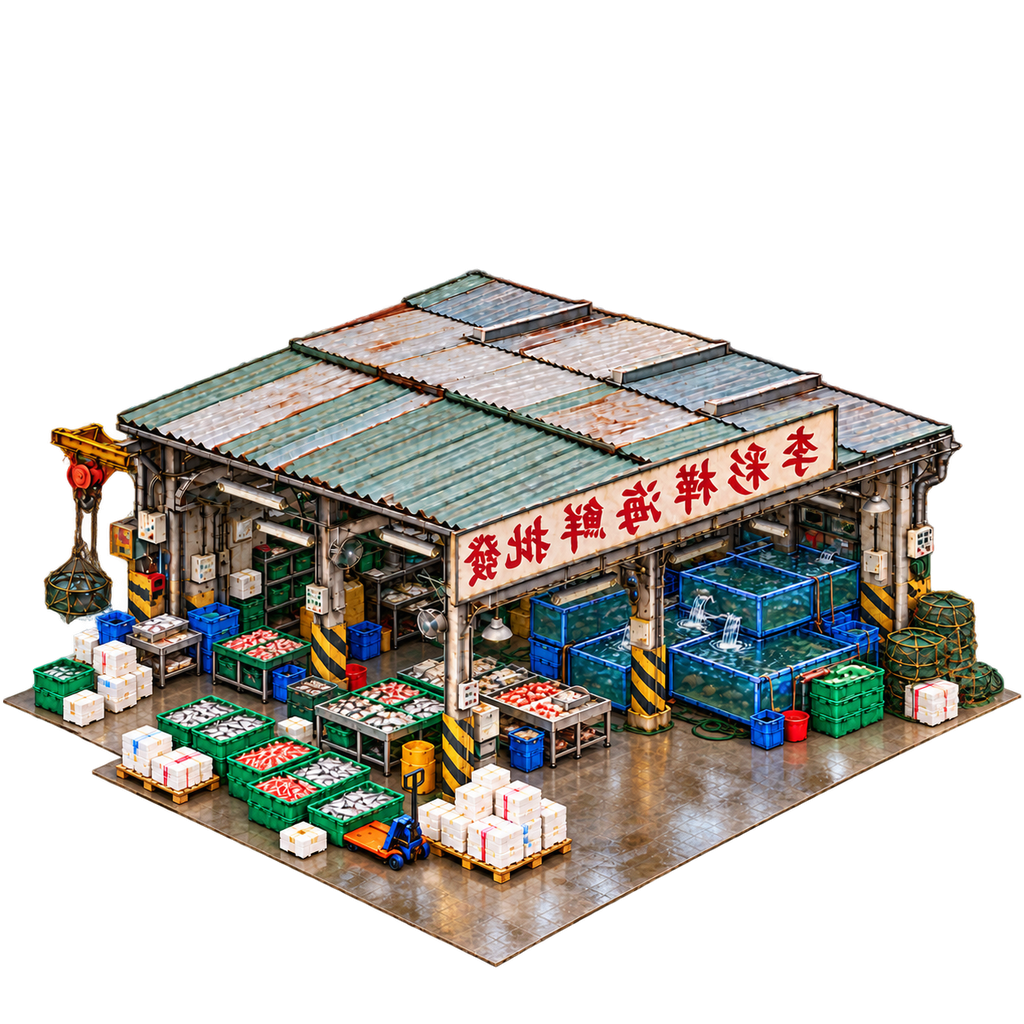
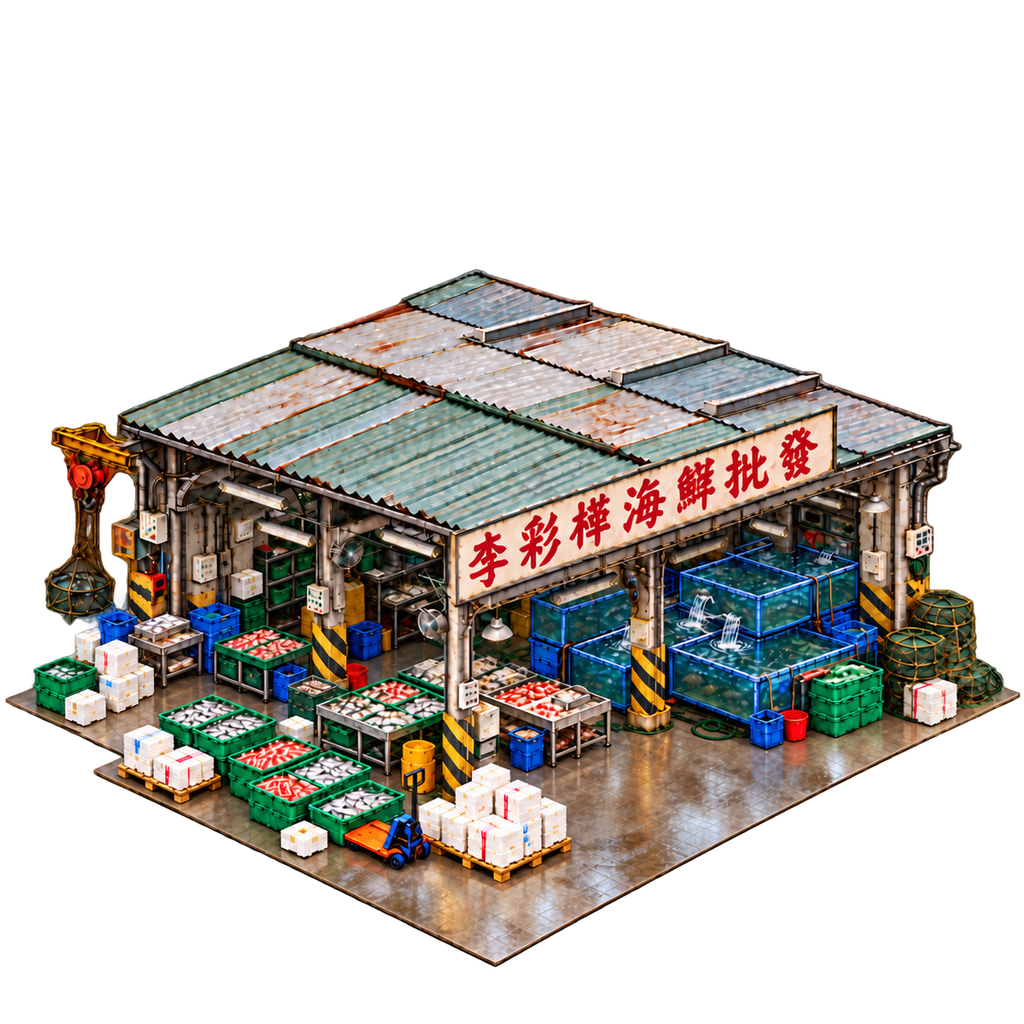
Make the loading bay an open lot that turns its driveway to the road
The loading bay's art is now Norton's asphalt lot: a driveway down the
middle, a row of parking bays down each side, hatched corners, no shed
and no lights. The render was not 2:1 (about 1.6:1, with some
perspective), so it is rectified from its four corners onto the 2 x 2
diamond; the source is kept in scripts/source-art/loadingBay/. With no
lights it has no day art, and the bay has no opening hours.

The mirror now turns the driveway to the road: the plain art opens to
the bottom-left and top-right on screen, the mirror to the bottom-right
and top-left, so every rotation has one or the other. The crate piles go
in the parking bays, clear of the driveway, the hatched corners and the
road edge, the furthest first; the first two trucks drive up the
driveway from between its two road tiles, one behind the other.

Mirrors: the fish market 1 day art and the seafood restaurant 2 lit art
take Norton's redrawn mirrors, whose signs read the right way; the rest
keep the flipped art until theirs are redrawn with matching signs (the
new renders are in scripts/source-art/marketMirror/).

Changed region(s): [[0.0, 0.25, 1.0, 0.9688], [0.7812, 0.75, 0.8438, 0.7812]]

diff --git a/typhoon-shelter-market.js b/typhoon-shelter-market.js
@@ -26,11 +26,17 @@ const TYPHOON_SHELTER_MARKET = Object.freeze({
   gridM: 5,                      // a tile (20 m) is laid out on a 4 x 4 grid of 5 m cells
   pileObjects: Object.freeze(['shoreAssessories1', 'shoreAssessories3', 'shoreAssessories4']),
   maxBayPiles: 24,
-  bayShedDepth: 0.36,            // the bay art's covered shed: this deep from its top-right edge
-  bayTruckClearTiles: 0.8,       // and the piles keep this clear of the road edge, where trucks stand
+  // the bay's art is a lot with a driveway down the middle and a row of parking bays down each side,
+  // the hatched corners kept clear: the piles go in the bays - this share of the lot's width in from
+  // each side, this far along it - and the trucks stand in the driveway
+  bayStallDepth: 0.28,
+  bayStallFrom: 0.2,
+  bayStallTo: 0.72,
+  bayTruckClearTiles: 0.8,       // and the piles keep this clear of the road edge, where trucks come in
   shelterReach: 4,               // a market serves the shelter whose waterfront is nearest, this close
   bayReach: 2,                   // a loading bay belongs to a market this close (tiles between them)
   bayInsideTiles: 1,             // a truck in a bay stands this far in from the middle of the road
+  bayDriveTiles: Object.freeze([1.55, 0.9]),  // the two trucks in the driveway, the first further in
   // monthly upkeep, on the typhoon shelters' budget line (getTyphoonShelterMonthlyUpkeep)
   upkeep: Object.freeze({ fish_market: 90, seafood_restaurant: 60, fish_loading_bay: 30 }),
   // opening hours, sky minutes [from, to): lit art while open and all night, the lights-off day art
@@ -38,7 +44,6 @@ const TYPHOON_SHELTER_MARKET = Object.freeze({
   // restaurant lunch to late
   hours: Object.freeze({
     fish_market: Object.freeze([3 * 60, 10 * 60]),
-    fish_loading_bay: Object.freeze([3 * 60, 10 * 60]),     // the bay works the market's hours
     seafood_restaurant: Object.freeze([11 * 60, 23 * 60]),
   }),
 });
@@ -130,10 +135,11 @@ function assignTyphoonShelterMarkets({ markets, bays, shelters }, isRoad) {
 
 /**
  * Where the crate piles stand in a loading bay: [{ cell, row, col, offsets }], up to maxBayPiles.
- * The bay's art does not turn with the map: its covered shed runs along the top-right (north-east)
- * edge on screen - the top-left in the `mirrored` art - so the piles go on the open lot clear of
- * the shed and of the trucks' half by the road, the cells nearest the shed first. `toScreen(col,
- * row)` is isoToScreen (tile centres at whole numbers); the layout is redone when the map turns.
+ * The bay's art does not turn with the map: its driveway runs from the bottom-left edge to the
+ * top-right one on screen (in the `mirrored` art from the bottom-right to the top-left), its
+ * parking bays down the two other sides. The piles go in the parking bays, clear of the hatched
+ * corners and of the road edge, the bays furthest from the road first. `toScreen(col, row)` is
+ * isoToScreen (tile centres at whole numbers); the layout is redone when the map turns.
  */
 function layoutTyphoonShelterBayPiles(bay, toScreen, mirrored = false) {
   const M = TYPHOON_SHELTER_MARKET;
@@ -155,16 +161,18 @@ function layoutTyphoonShelterBayPiles(bay, toScreen, mirrored = false) {
     const c = col + dx / 20;
     const p = toScreen(c, r);
     const px = p.x - top.x; const py = p.y - top.y;
-    // a runs along the shed's edge, b is the depth from it
-    const along = (px * vy - py * vx) / det;
-    const depth = (ux * py - uy * px) / det;
-    const a = mirrored ? depth : along;
-    const b = mirrored ? along : depth;
-    if (b < M.bayShedDepth || a < 0.08 || a > 0.92 || b > 0.92) return;
-    if (edge(r, c) < M.bayTruckClearTiles) return;
-    cells.push({ cell: `${row}:${col}:${dy}:${dx}`, row, col, a, b, offsets: [['s', dy], ['e', dx]] });
+    // in the art: across the driveway (0 and 1 the two sides with parking bays), and along it
+    const u = (px * vy - py * vx) / det;
+    const v = (ux * py - uy * px) / det;
+    const across = mirrored ? v : u;
+    const along = mirrored ? u : v;
+    const inBays = across < M.bayStallDepth || across > 1 - M.bayStallDepth;
+    if (!inBays || along < M.bayStallFrom || along > M.bayStallTo || across < 0.04 || across > 0.96) return;
+    const fromRoad = edge(r, c);
+    if (fromRoad < M.bayTruckClearTiles) return;
+    cells.push({ cell: `${row}:${col}:${dy}:${dx}`, row, col, fromRoad, across, offsets: [['s', dy], ['e', dx]] });
   })));
-  cells.sort((x, y) => x.b - y.b || x.a - y.a);
+  cells.sort((x, y) => y.fromRoad - x.fromRoad || x.across - y.across || x.cell.localeCompare(y.cell));
   return cells.slice(0, M.maxBayPiles).map(({ cell, row, col, offsets }) => ({ cell, row, col, offsets }));
 }
 
@@ -318,6 +326,12 @@ function tsTruckSpot(market, k, isParkingRoad, buildingSide, arrival, dr, dc) {
     .filter((t) => !footprint.some(([r, c]) => r === t.row && c === t.col) && isParkingRoad(t.row, t.col))
     .sort((a, b) => (b.row * arrival.row + b.col * arrival.col) - (a.row * arrival.row + a.col * arrival.col));
   if (!front.length) return null;
+  // the first two drive into the driveway, which runs in from between the two road tiles: one
+  // behind the other, the first further in
+  const drive = TYPHOON_SHELTER_MARKET.bayDriveTiles;
+  if (k < drive.length && front.length >= 2) {
+    return tsCurbSpot(front[0], buildingSide, arrival, 0.5, isParkingRoad, drive[k] - ICE_CREAM_EVENT_CONFIG.parkingOffsetTiles);
+  }
   const inset = TYPHOON_SHELTER_MARKET.bayInsideTiles - ICE_CREAM_EVENT_CONFIG.parkingOffsetTiles;
   if (k < front.length) return tsCurbSpot(front[k], buildingSide, arrival, 0, isParkingRoad, inset);
   return tsCurbSpot(front[front.length - 1], buildingSide, arrival, (k - front.length + 1) * T.slotTiles, isParkingRoad);
@@ -460,11 +474,11 @@ function getTyphoonShelterLightingKey(facingKey, shutByDay, hasDayArt) {
   return shutByDay && hasDayArt ? `${facingKey}_day` : facingKey;
 }
 
-// The loading bay's art is open on three sides, its shed along the top-right edge on screen (the
-// mirror's top-left) and its way in from the bottom-left (the mirror's bottom-right): with the road
-// to the south-east or north-east the mirror, else the plain art - an open side always on the road.
+// The loading bay's driveway runs from the bottom-left edge to the top-right one on screen (the
+// mirror's from the bottom-right to the top-left): with the road to the south-east or north-west
+// the mirror, else the plain art - the driveway always opens on the road.
 function isTyphoonShelterBayMirrored(roadScreen) {
-  return roadScreen === 'se' || roadScreen === 'ne';
+  return roadScreen === 'se' || roadScreen === 'nw';
 }
 
 // Whether a bay (with its `road` from chooseTyphoonShelterRoadSide) is drawn mirrored at `rotation`.
@@ -495,8 +509,8 @@ function getTyphoonShelterBuildingLighting(scene) {
 }
 
 // On a map turn, a load, a placement, and when one opens or shuts or night falls: each market and
-// restaurant drawn with its front to the sea, each loading bay with its open side to the road, and
-// all of them with their lights on or off.
+// restaurant drawn with its front to the sea and its lights on or off, each loading bay with its
+// driveway to the road.
 function refreshTyphoonShelterBuildingSprites(scene) {
   if (typeof buildingData === 'undefined' || typeof SPECIAL_BUILDING_MIRROR_MODELS === 'undefined') return;
   const rotation = typeof mapRotation === 'number' ? mapRotation : 0;
@@ -505,7 +519,7 @@ function refreshTyphoonShelterBuildingSprites(scene) {
   if (scene) scene.typhoonShelterBuildingLighting = lighting.key;
   const dayArt = typeof SPECIAL_BUILDING_DAY_MODELS !== 'undefined' ? SPECIAL_BUILDING_DAY_MODELS : {};
   Object.entries(buildingData).forEach(([id, record]) => {
-    if (!TYPHOON_SHELTER_MARKET.hours[record?.type]) return;
+    if (!['fish_market', 'seafood_restaurant', 'fish_loading_bay'].includes(record?.type)) return;
     const baseKey = String(record.spriteKey || '').replace(/(_m)?(_day)?$/, '');
     const [row, col] = id.split(':').map(Number);
     let facingKey;

diff --git a/test/typhoon-shelter-market.test.js b/test/typhoon-shelter-market.test.js
@@ -47,24 +47,39 @@ test('a market serves the nearest shelter in reach, and a loading bay beside it 
   assert.equal(both.filter((m) => m.bay?.id === '5:7').length, 1);
 });
 
-test('a loading bay\'s crate piles stand on the open lot: clear of the shed and of the trucks', () => {
-  const toScreen = (col, row) => ({ x: (col - row) * 32, y: (col + row) * 16 });
-  const bay = { row: 5, col: 7, road: { side: 's', road: { row: 7, col: 7 }, through: 2 } };
-  const piles = layoutTyphoonShelterBayPiles(bay, toScreen);
-  assert.ok(piles.length > 8 && piles.length <= M.maxBayPiles, `${piles.length} piles`);
-  assert.equal(new Set(piles.map((p) => p.cell)).size, piles.length);
-  // the shed runs along the top-right edge on screen: between the top and right corners
+// a point's place in the bay's art: across the driveway (0, 1: the sides with parking bays) and
+// along it, from the corners of the 2 x 2 lot on screen
+function bayArtCoords(bay, toScreen, p, mirrored) {
   const top = toScreen(bay.col - 0.5, bay.row - 0.5);
   const right = toScreen(bay.col + 1.5, bay.row - 0.5);
-  piles.forEach((p) => {
-    const r = p.row + p.offsets[0][1] / 20;
-    const c = p.col + p.offsets[1][1] / 20;
-    const pt = toScreen(c, r);
-    // distance from the shed's edge, as a share of the bay's depth
-    const ex = right.x - top.x; const ey = right.y - top.y;
-    const across = Math.abs((pt.x - top.x) * ey - (pt.y - top.y) * ex) / Math.hypot(ex, ey);
-    assert.ok(across > 0.3 * 2 * 32 * Math.SQRT2 * 0.7, 'clear of the shed');
-    assert.ok(bay.row + 1.5 - r >= M.bayTruckClearTiles, 'clear of the trucks by the road');
+  const left = toScreen(bay.col - 0.5, bay.row + 1.5);
+  const r = p.row + p.offsets[0][1] / 20;
+  const c = p.col + p.offsets[1][1] / 20;
+  const pt = toScreen(c, r);
+  const ux = right.x - top.x; const uy = right.y - top.y; const vx = left.x - top.x; const vy = left.y - top.y;
+  const det = ux * vy - uy * vx;
+  const u = ((pt.x - top.x) * vy - (pt.y - top.y) * vx) / det;
+  const v = (ux * (pt.y - top.y) - uy * (pt.x - top.x)) / det;
+  return { across: mirrored ? v : u, along: mirrored ? u : v, r, c };
+}
+
+test('a loading bay\'s crate piles stand in its parking bays: clear of the driveway, the hatched corners and the road', () => {
+  const toScreen = (col, row) => ({ x: (col - row) * 32, y: (col + row) * 16 });
+  [[false, { side: 's', road: { row: 7, col: 7 }, through: 2 }], [true, { side: 'e', road: { row: 5, col: 9 }, through: 2 }]].forEach(([mirrored, road]) => {
+    const bay = { row: 5, col: 7, road };
+    const piles = layoutTyphoonShelterBayPiles(bay, toScreen, mirrored);
+    assert.ok(piles.length >= 8 && piles.length <= M.maxBayPiles, `${piles.length} piles`);
+    assert.equal(new Set(piles.map((p) => p.cell)).size, piles.length);
+    let sides = 0;
+    piles.forEach((p) => {
+      const { across, along, r, c } = bayArtCoords(bay, toScreen, p, mirrored);
+      assert.ok(across < M.bayStallDepth || across > 1 - M.bayStallDepth, `in a parking bay, not the driveway (${across.toFixed(2)})`);
+      assert.ok(along >= M.bayStallFrom && along <= M.bayStallTo, 'clear of the hatched corners');
+      const fromRoad = road.side === 's' ? bay.row + 1.5 - r : bay.col + 1.5 - c;
+      assert.ok(fromRoad >= M.bayTruckClearTiles, 'clear of the road edge');
+      sides |= across < 0.5 ? 1 : 2;
+    });
+    assert.equal(sides, 3, 'both rows of parking bays');
   });
 });
 
@@ -159,12 +174,13 @@ test('the trucks pull up from 03:00 and queue along the curb, loading in turn', 
     const dead = getTyphoonShelterTruckParking(market, 0, (r, c) => stub.has(`${r}:${c}`));
     assert.equal(dead.arrival.col, -1, 'comes from the east');
     assert.equal(dead.departure.col, 1, 'turns round and leaves east');
-    // a bay: the first two drive in, the further one first; the third waits at the curb behind
+    // a bay: the first two drive up its driveway, which runs in from between its two road tiles
+    // (cols 11 and 12), one behind the other, the first further in; the third waits at the curb
     const withBay = { ...market, bay: { row: 10, col: 11, road: { side: 'n', road: { row: 9, col: 11 }, through: 2 } } };
     const in0 = getTyphoonShelterTruckParking(withBay, 0, isRoad);
     const in1 = getTyphoonShelterTruckParking(withBay, 1, isRoad);
-    assert.deepEqual([in0.road.col, in1.road.col], [11, 12], 'travelling west, col 11 is further along');
-    assert.ok(in0.shift.row > 0.5, 'in off the road');
+    assert.deepEqual([in0.road.col + in0.shift.col, in1.road.col + in1.shift.col], [11.5, 11.5], 'in the driveway');
+    assert.ok(in0.shift.row > in1.shift.row + 0.55 && in1.shift.row > 0.4, 'in off the road, the first further in, a truck length apart');
     const queued = getTyphoonShelterTruckParking(withBay, 2, isRoad);
     assert.ok(queued.road.col >= 12 && Math.abs(queued.shift.row) < 1e-9, 'at the curb');
   } finally {
@@ -185,36 +201,19 @@ test('markets and restaurants face the sea, and draw their lights-off day art on
   assert.equal(isTyphoonShelterBuildingOpen('fish_market', 14 * 60 + 1440 * 3), false, 'any day');
   assert.equal(isTyphoonShelterBuildingOpen('seafood_restaurant', 9 * 60), false);
   assert.equal(isTyphoonShelterBuildingOpen('seafood_restaurant', 19 * 60), true);
-  assert.equal(isTyphoonShelterBuildingOpen('fish_loading_bay', 14 * 60), false, 'the bay works the market\'s hours');
-  assert.equal(isTyphoonShelterBuildingOpen('fish_loading_bay', 4 * 60), true);
+  assert.equal(isTyphoonShelterBuildingOpen('fish_loading_bay', 14 * 60), true, 'the bay is an open lot: no lights to put out');
   assert.equal(isTyphoonShelterBuildingOpen('harbor', 14 * 60), true, 'no hours: always as drawn');
   assert.equal(getTyphoonShelterLightingKey('fish_market_1x1_m', true, true), 'fish_market_1x1_m_day');
   assert.equal(getTyphoonShelterLightingKey('fish_market_1x1_m', false, true), 'fish_market_1x1_m');
   assert.equal(getTyphoonShelterLightingKey('fish_market_1x1', true, false), 'fish_market_1x1', 'no day art: the lit art');
 });
 
-test('a loading bay turns an open side to the road: the mirror for a road to the south-east or north-east', () => {
+test('a loading bay turns its driveway to the road: the mirror for a road to the south-east or north-west', () => {
   const { isTyphoonShelterBayMirrored } = market;
-  // plain art: shed top-right, open bottom-left, bottom-right and top-left; the mirror the other way
+  // plain art: the driveway opens bottom-left and top-right; the mirror bottom-right and top-left
   assert.equal(isTyphoonShelterBayMirrored('sw'), false);
-  assert.equal(isTyphoonShelterBayMirrored('nw'), false);
+  assert.equal(isTyphoonShelterBayMirrored('ne'), false);
   assert.equal(isTyphoonShelterBayMirrored('se'), true);
-  assert.equal(isTyphoonShelterBayMirrored('ne'), true);
+  assert.equal(isTyphoonShelterBayMirrored('nw'), true);
   assert.equal(isTyphoonShelterBayMirrored(null), false);
-  // and in the mirror the crate piles keep clear of the shed along the top-left edge instead
-  const toScreen = (col, row) => ({ x: (col - row) * 32, y: (col + row) * 16 });
-  const bay = { row: 5, col: 7, road: { side: 'e', road: { row: 5, col: 9 }, through: 2 } };
-  const piles = layoutTyphoonShelterBayPiles(bay, toScreen, true);
-  assert.ok(piles.length > 8, `${piles.length} piles`);
-  const top = toScreen(bay.col - 0.5, bay.row - 0.5);
-  const left = toScreen(bay.col - 0.5, bay.row + 1.5);
-  const ex = left.x - top.x; const ey = left.y - top.y;
-  piles.forEach((p) => {
-    const r = p.row + p.offsets[0][1] / 20;
-    const c = p.col + p.offsets[1][1] / 20;
-    const pt = toScreen(c, r);
-    const across = Math.abs((pt.x - top.x) * ey - (pt.y - top.y) * ex) / Math.hypot(ex, ey);
-    assert.ok(across > 0.3 * 2 * 32 * Math.SQRT2 * 0.7, 'clear of the shed');
-    assert.ok(bay.col + 1.5 - c >= M.bayTruckClearTiles, 'clear of the trucks by the road');
-  });
 });

diff --git a/constants.js b/constants.js
@@ -1118,7 +1118,7 @@ function getSpecialBuildingModels(buildingType) {
 }
 
 // The 海事處 markets and restaurants keep their front (or back) to the sea however the map turns,
-// and the loading bay an open side to the road: each model has its mirror image, chosen per
+// and the loading bay its driveway to the road: each model has its mirror image, chosen per
 // rotation (refreshTyphoonShelterBuildingSprites, typhoon-shelter-market.js). Not a variant of its own.
 const SPECIAL_BUILDING_MIRROR_MODELS = Object.freeze(Object.fromEntries([
   ['fish_market_1x1', 'Models/specialSites/1x1/fishMarket1-01_m.png', 1],
@@ -1128,11 +1128,12 @@ const SPECIAL_BUILDING_MIRROR_MODELS = Object.freeze(Object.fromEntries([
   ['fish_loading_bay_2x2', 'Models/specialSites/2x2/fishLoadingBay2-01_m.png', 2],
 ].map(([key, path, size]) => [key, Object.freeze({ spriteKey: `${key}_m`, path, footprintCols: size, footprintRows: size })])));
 
-// And each (and its mirror) by day with the lights off, drawn while it is shut in daylight - the
-// plain art is lit, as it is when open and all night (refreshTyphoonShelterBuildingSprites).
+// And each market and restaurant (and its mirror) by day with the lights off, drawn while it is shut
+// in daylight - the plain art is lit, as it is when open and all night
+// (refreshTyphoonShelterBuildingSprites). The loading bay is an open lot with no lights of its own.
 const SPECIAL_BUILDING_DAY_MODELS = Object.freeze(Object.fromEntries(
   [
-    ...Object.entries(SPECIAL_BUILDING_MIRROR_MODELS).flatMap(([key, mirror]) => [
+    ...Object.entries(SPECIAL_BUILDING_MIRROR_MODELS).filter(([key]) => key !== 'fish_loading_bay_2x2').flatMap(([key, mirror]) => [
       { ...mirror, spriteKey: key, path: mirror.path.replace(/_m\.png$/, '.png') }, mirror,
     ]),
   ].map((model) => [model.spriteKey, Object.freeze({

diff --git a/docs/typhoon-shelter-phased-plan.md b/docs/typhoon-shelter-phased-plan.md
@@ -114,7 +114,7 @@
 - 出海時間（2026-10-05 改，跟香港漁民作息）：漁船夜晚作業，凌晨 03:00–05:00 靠岸卸魚。燈光漁船（fishingBoat1）同刺網船（fishingBoat3）17:00–19:00 出海，拖網船（fishingBoat4）15:00–17:00 出海；刺網船每晚大約四分一休息唔出。休漁期（5 月至 8 月）拖網船留港。一程由 06:00 計到下一朝 06:00，即係光照日同日曆月份，所以一程唔會跨月。每艘船嘅時間由種子決定，住家艇同舢舨留喺塘內。
 - 海事處建築（`typhoon-shelter-market.js`，2026-10-06）：menu 新增「海事處」（避風塘工具亦搬咗過嚟），可以起魚類批發市場（1×1，兩款）、海鮮酒家（1×1，兩款）同卸貨區（2×2）。三樣都要起喺避風塘嘅石仔地（包括步道格，起咗嗰格嘅步道地磚、路邊石同燈柱會拎走，海邊堤邊保留），旁邊要有馬路。魚市場屬於海濱 4 格內最近嘅避風塘，同一個塘有幾個魚市場就平分漁獲；卸貨區要喺魚市場 2 格內先屬於佢。漁船凌晨靠岸卸魚去魚市場，04:00 開市後由賣魚貨車逐車運走（每車 6 噸，最多 8 車）。有卸貨區：魚貨堆喺卸貨區後半（每噸一堆，最多 24 堆），頭兩架貨車駛入卸貨區上貨，其餘喺路邊排隊；冇卸貨區：唔堆魚貨，貨車喺魚市場門口路邊排隊。貨車大約 20:00 出發，靠左行，掘頭路會掉頭；門口條路未接通其他馬路就駛唔埋，面板會提示。冇魚市場就冇貨車。魚貨量由時鐘計出，唔使存檔；建築本身照一般建築存檔。維護費計入避風塘維護（魚市場 $90、酒家 $60、卸貨區 $30／月）。原本自動擺嘅魚檔同岸邊隨機魚貨堆已取消。
 - 2026-10-06 修正：舢舨唔再佔泊位（單格泊位留畀打風時嘅外來舢舨），改為泊喺登岸浮台兩側（每個浮台 4 隻，大約每 4 艘漁船 1 隻），漁船出海前送漁民上船，靠岸後過去幫手卸貨，時間表由時鐘計出。卸貨區嘅圖唔會跟地圖轉，所以魚貨位置按畫面方向排，避開右上嘅有蓋建築同貨車泊位，轉地圖會重新排；魚貨要等畫咗出嚟嘅貨車停好、開始上貨先減少（冇貨車畫出嚟就照時間）。魚市場同海鮮酒家有鏡像圖，轉地圖時揀正面或者背面向海嘅一張，唔會側面向海。
-- 2026-10-07：舢舨路線改為喺塘內水格搵路（水道代價 1、空泊位 3、有船泊位 40，浮橋同陸地唔行得），沿水道直行、直角轉彎，最後先靠埋船邊。魚市場同海鮮酒家有日間熄燈版圖（`*_day.png`，連鏡像；原圖存喺 `scripts/source-art/marketDay/`）：日光時段收市就用熄燈版，開市同夜晚用原本有燈嘅圖（魚市場 03:00–10:00、酒家 11:00–23:00，`TYPHOON_SHELTER_MARKET.hours`）。卸貨區亦有日間版（跟魚市場時間）。卸貨區有鏡像圖，揀圖原則係開放嘅一邊要向住馬路：馬路喺畫面左下或者左上用原圖，右下或者右上用鏡像（`isTyphoonShelterBayMirrored`），魚貨堆位置跟住鏡像避開有蓋部分。呢個做法要卸貨區嘅圖只有一邊（右上）有蓋，其餘三邊開放；而家嘅圖左上仲有圍欄同細簷篷，要換新圖先完全啱。
+- 2026-10-07：舢舨路線改為喺塘內水格搵路（水道代價 1、空泊位 3、有船泊位 40，浮橋同陸地唔行得），沿水道直行、直角轉彎，最後先靠埋船邊。魚市場同海鮮酒家有日間熄燈版圖（`*_day.png`，連鏡像；原圖存喺 `scripts/source-art/marketDay/`）：日光時段收市就用熄燈版，開市同夜晚用原本有燈嘅圖（魚市場 03:00–10:00、酒家 11:00–23:00，`TYPHOON_SHELTER_MARKET.hours`）。2026-10-07 卸貨區換成新圖：一幅柏油停車場（中間車道、兩邊車位、四角黃斜線，冇上蓋、冇燈，所以冇日間版），原圖用四角透視矯正成 2:1（原圖存喺 `scripts/source-art/loadingBay/`）。揀圖原則係車道要對住馬路：馬路喺畫面左下或者右上用原圖，右下或者左上用鏡像（`isTyphoonShelterBayMirrored`）；魚貨堆擺喺兩排車位（避開車道、黃線角同近馬路嗰段），頭兩架貨車一前一後停喺車道。魚市場 1 日間同海鮮酒家 2 有燈嘅鏡像換成招牌字正常嘅版本，其餘鏡像仍然係左右反轉嘅舊圖（原圖存喺 `scripts/source-art/marketMirror/`）。
 - 航道：由泊位經塘內水域行去最近出入口，出咗口就沿離岸方向行 30 格，唔會穿過陸地、防波堤或者浮橋。
 - 天氣閘門：三號風球或以上、或者黑雨，未出海嘅船唔出，已出海嘅即刻掉頭返港。
 - 面板顯示船隊數目、而家停泊／出海／返港嘅數目、今日漁獲（指標，未入市庫；因天氣提早返港嘅船按實際捕魚時間計）同天氣停航。
